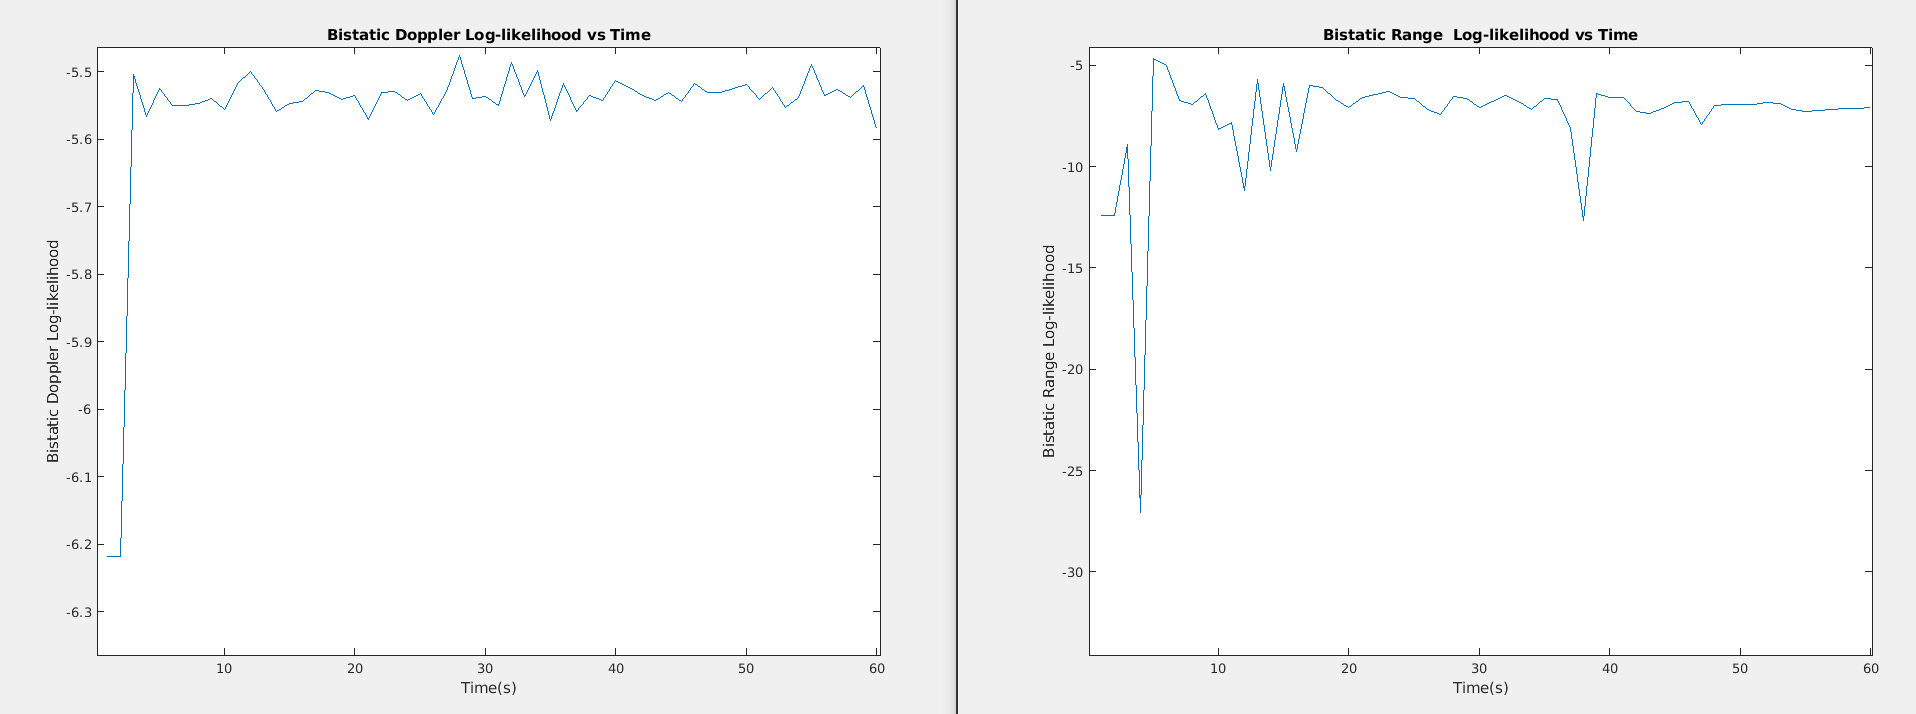
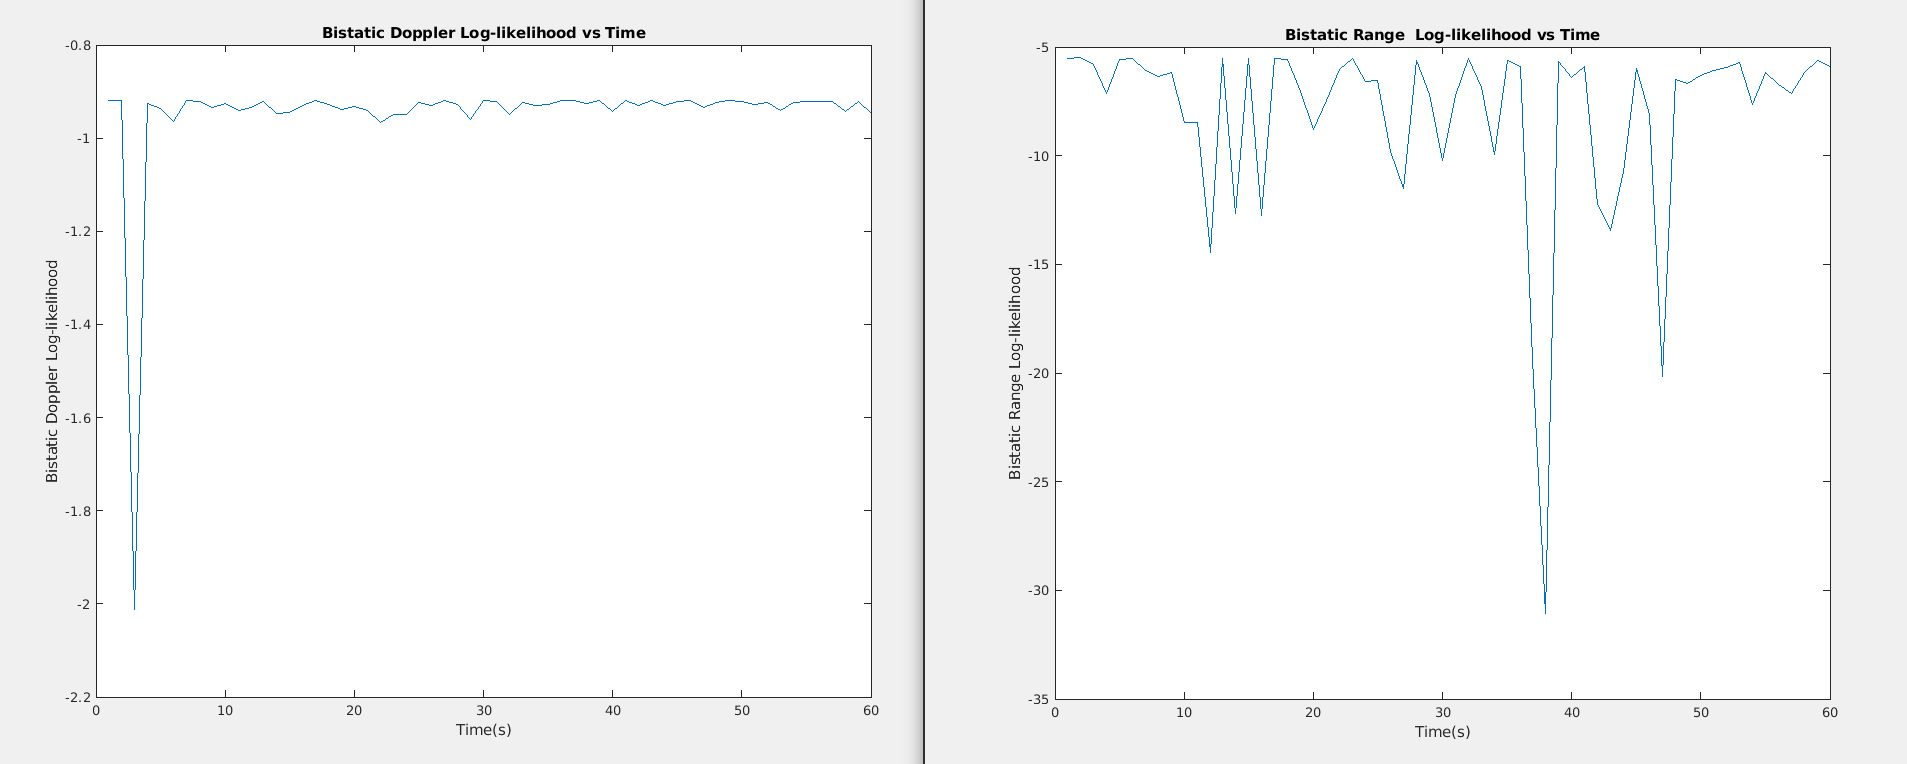
LogLikelihood Particle Filter

diff --git a/TrackingFilter-ParticleFilter/particleFilter.m b/TrackingFilter-ParticleFilter/particleFilter.m
@@ -37,8 +37,8 @@ classdef particleFilter
                     (dt^3)/2,dt^2]*std_acc;
             
 
-            obj.S = [100000,0;
-                     0,200];
+            obj.S = [0,0;
+                     0,0];
 
         end
         
@@ -57,10 +57,9 @@ classdef particleFilter
             % Update the covariance matrix of the particles based on the noise added
             
             X_pred = mean(obj.particles, 1)';
-            std_dev = var(obj.particles, 1);
-            obj.S(1, 1) = std_dev(1);
-            obj.S(2, 2) = std_dev(2);
-        
+            %std_dev = var(obj.particles, 1);
+            %obj.S(1, 1) = std_dev(1);
+            %obj.S(2, 2) = std_dev(2);
             PF_obj = obj;
         end
         
@@ -72,11 +71,10 @@ classdef particleFilter
             likelihood_x = exp(-0.5 * (diffs(:, 1).^2) / obj.std_meas(1)^2);
             likelihood_y = exp(-0.5 * (diffs(:, 2).^2) / obj.std_meas(2)^2);
             likelihood = likelihood_x .* likelihood_y;
-                        
             
             % Normalize the likelihood
             likelihood = likelihood / sum(likelihood);
-
+            
             
             % Update the particle weights
             obj.weights = obj.weights .* likelihood;
@@ -93,7 +91,13 @@ classdef particleFilter
             % Calculate estimated state as weighted mean
             [meanValue, ~] = obj.estimate(obj.particles, obj.weights);
             X_est = meanValue;
+            
+            % Initialize the cross-covariance matrix (K) as a zero matrix
         
+            % Calculate the cross-covariance elements (K_ij) using the weighted particles
+            % S = HPH' + R;
+            obj.S= sum(obj.weights .* (obj.particles(:, 1:2) - meanValue) .* (z - meanValue')', 3) + obj.std_meas;
+            
             PF_obj = obj;
         end
     end
